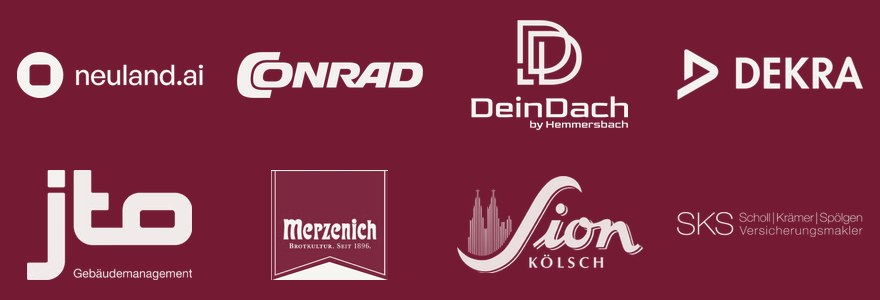
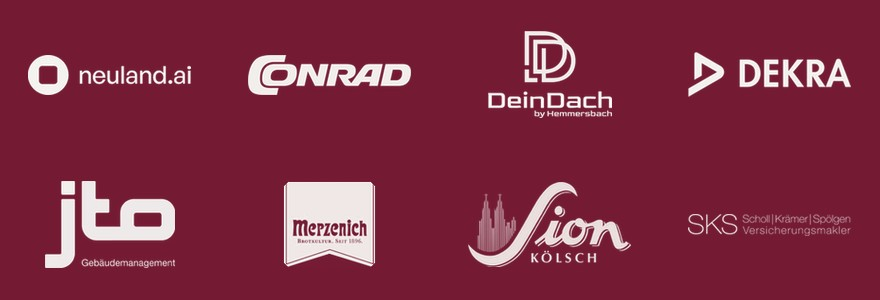
Save the Date: zweite Feedback-Runde (Anne) + echte Rechtslinks (Desi)
Anmerkungen von Anne umgesetzt:
- Logo in den Header gesetzt (zentriertes Logo ueber die Koeln-Skyline
  komponiert, circle-header-std.jpg); separate Logo-Zeile entfernt.
- "SAVE THE DATE" in Versalien.
- "THE CIRCLE No1" heruntergezogen, sitzt jetzt direkt ueber dem Datum.
- Gedankenstrich im Ausblick raus: "... in Kuerze. Halte dir den Abend gern
  schon frei."
- Footer "IHRE MARKENWERKSTATT" in Versalien (Schreibweise Markenwerkstatt).
- Merzenich-Logo korrekt invertiert: war ein weisser Fleck (nur Text, Banner
  transparent), jetzt weisser Banner mit bordeauxrotem Text. Partnerwand neu
  gebaut.

Rechtslinks von Desi (the-circle-cologne.de) in ALLEN Templates fest
verdrahtet, Adress-Platzhalter entfernt:
  Impressum      https://www.the-circle-cologne.de/impressum/
  Datenschutz    https://www.the-circle-cologne.de/datenschutzerklaerung/
Damit ist die rechtliche Kennzeichnung geklaert.

Neue Assets: logo-zentriert-neg.png, circle-header-std.jpg,
partner-merzenich-neg.png (invertiert), partnerwand-bordeaux.jpg (neu gebaut).

diff --git a/email/save-the-date.html b/email/save-the-date.html
@@ -44,34 +44,23 @@
 
       <table role="presentation" width="600" cellpadding="0" cellspacing="0" border="0" style="max-width:600px;width:100%;background-color:#741a33;">
 
-        <!-- S/W-Koeln-Header -->
+        <!-- S/W-Koeln-Header MIT eingesetztem Logo (Anne: "Logo oben in den Header") -->
         <tr><td>
-          <img src="{{header_img_url}}" width="600" alt="THE CIRCLE &ndash; &uuml;ber den D&auml;chern von K&ouml;ln"
+          <img src="https://thecircle.planyvo.com/assets/circle-header-std.jpg" width="600" alt="THE CIRCLE &ndash; &uuml;ber den D&auml;chern von K&ouml;ln"
                style="display:block;width:100%;height:auto;border:0;">
         </td></tr>
 
-        <!-- Logo: zentriert/gestapelt (Anne: "das andere, zentrierte Logo") -->
+        <!-- Anrede in der Kapitalis-Schrift wie THE CIRCLE No1 (Anne) -->
         <tr><td align="center" style="padding:36px 40px 0 40px;">
-          <img src="https://thecircle.planyvo.com/assets/logo-zentriert-neg.png" width="160" alt="THE CIRCLE &ndash; connecting generations" style="display:block;border:0;width:160px;max-width:48%;height:auto;">
-        </td></tr>
-
-        <tr><td style="padding:30px 64px 0 64px;"><div style="border-top:1px solid #94505f;font-size:0;line-height:0;">&nbsp;</div></td></tr>
-
-        <!-- Anrede -->
-        <tr><td align="center" style="padding:32px 40px 0 40px;">
           <div style="font-family:'Trajan Pro 3','Trajan Pro','Cinzel',Georgia,'Times New Roman',serif;font-size:20px;line-height:1.5;color:#f8f7f4;">
             {{anrede}} {{vorname}},
           </div>
         </td></tr>
-        <!-- THE CIRCLE No1 in der Kapitalis-Schrift (Anne: "die Schrift von THE CIRCLE No1 verwenden") -->
-        <tr><td align="center" style="padding:16px 40px 0 40px;">
-          <div style="font-family:'Trajan Pro 3','Trajan Pro','Cinzel',Georgia,'Times New Roman',serif;font-size:16px;letter-spacing:3px;color:#f8f7f4;text-transform:uppercase;">THE CIRCLE No1</div>
-        </td></tr>
 
-        <!-- Headline -->
-        <tr><td align="center" style="padding:12px 40px 0 40px;">
-          <div style="font-family:'Trajan Pro 3','Trajan Pro','Cinzel',Georgia,'Times New Roman',serif;font-size:37px;line-height:1.3;color:#ff6b6c;">
-            Save<br>the Date.
+        <!-- Headline in Versalien (Anne: "SAVE THE DATE in Versalien") -->
+        <tr><td align="center" style="padding:14px 40px 0 40px;">
+          <div style="font-family:'Trajan Pro 3','Trajan Pro','Cinzel',Georgia,'Times New Roman',serif;font-size:37px;line-height:1.25;color:#ff6b6c;text-transform:uppercase;">
+            Save the<br>Date.
           </div>
         </td></tr>
 
@@ -84,8 +73,13 @@
           </div>
         </td></tr>
 
+        <!-- THE CIRCLE No1 direkt ueber dem Datum (Anne: "runter ziehen, ueber das Datum") -->
+        <tr><td align="center" style="padding:28px 40px 0 40px;">
+          <div style="font-family:'Trajan Pro 3','Trajan Pro','Cinzel',Georgia,'Times New Roman',serif;font-size:16px;letter-spacing:3px;color:#f8f7f4;text-transform:uppercase;">THE CIRCLE No1</div>
+        </td></tr>
+
         <!-- Fakten -->
-        <tr><td align="center" style="padding:26px 40px 0 40px;">
+        <tr><td align="center" style="padding:16px 40px 0 40px;">
           <div style="font-family:Arial,Helvetica,sans-serif;font-size:11px;letter-spacing:3px;color:#f8f7f4;text-transform:uppercase;line-height:2.2;">
             Mittwoch, 16. September 2026 &middot; 18:00 &ndash; 23:00 Uhr<br>Playa Cologne<br>3-Gang-Men&uuml; inkl. Getr&auml;nke<br>Teilnahme: 100 Euro
           </div>
@@ -127,8 +121,8 @@
         <tr><td align="center" style="padding:26px 56px 0 56px;">
           <div style="font-family:Arial,Helvetica,sans-serif;font-size:14px;line-height:1.75;color:#f2cbd7;">
             Die Teilnahme ist ausschlie&szlig;lich auf Einladung m&ouml;glich.
-            Deine pers&ouml;nliche Einladung erreicht dich in K&uuml;rze &mdash;
-            halte dir den Abend gern schon frei.
+            Deine pers&ouml;nliche Einladung erreicht dich in K&uuml;rze.
+            Halte dir den Abend gern schon frei.
           </div>
         </td></tr>
 
@@ -164,13 +158,12 @@
         <!-- Footer -->
         <tr><td align="center" style="padding:24px 40px 6px 40px;">
           <div style="font-family:Arial,Helvetica,sans-serif;font-size:9px;letter-spacing:3px;color:#c9889a;text-transform:uppercase;">Eine Veranstaltung von</div>
-          <div style="font-family:'Trajan Pro 3','Trajan Pro','Cinzel',Georgia,'Times New Roman',serif;font-size:15px;letter-spacing:1px;color:#f2cbd7;padding-top:8px;">Ihre Marken Werkstatt &middot; AERA &middot; Public Cologne</div>
+          <div style="font-family:'Trajan Pro 3','Trajan Pro','Cinzel',Georgia,'Times New Roman',serif;font-size:15px;letter-spacing:1px;color:#f2cbd7;padding-top:8px;text-transform:uppercase;">Ihre Markenwerkstatt &middot; AERA &middot; Public Cologne</div>
         </td></tr>
         <tr><td align="center" style="padding:14px 40px 0 40px;">
           <div style="font-family:Arial,Helvetica,sans-serif;font-size:10px;color:#c9889a;line-height:1.7;">
-            {{impressum_zeile}}<br>
-            <a href="{{impressum_url}}" style="color:#c9889a;text-decoration:underline;">Impressum</a> &middot;
-            <a href="{{datenschutz_url}}" style="color:#c9889a;text-decoration:underline;">Datenschutz</a>
+            <a href="https://www.the-circle-cologne.de/impressum/" style="color:#c9889a;text-decoration:underline;">Impressum</a> &middot;
+            <a href="https://www.the-circle-cologne.de/datenschutzerklaerung/" style="color:#c9889a;text-decoration:underline;">Datenschutz</a>
           </div>
         </td></tr>
         <tr><td align="center" style="padding:8px 40px 32px 40px;">

diff --git a/email/app-zugang.html b/email/app-zugang.html
@@ -117,9 +117,8 @@
         </td></tr>
         <tr><td align="center" style="padding:14px 40px 0 40px;">
           <div style="font-family:Arial,Helvetica,sans-serif;font-size:10px;color:#7a8db3;line-height:1.7;">
-            {{impressum_zeile}}<br>
-            <a href="{{impressum_url}}" style="color:#7a8db3;text-decoration:underline;">Impressum</a> &middot;
-            <a href="{{datenschutz_url}}" style="color:#7a8db3;text-decoration:underline;">Datenschutz</a>
+                        <a href="https://www.the-circle-cologne.de/impressum/" style="color:#7a8db3;text-decoration:underline;">Impressum</a> &middot;
+            <a href="https://www.the-circle-cologne.de/datenschutzerklaerung/" style="color:#7a8db3;text-decoration:underline;">Datenschutz</a>
           </div>
         </td></tr>
         <tr><td align="center" style="padding:8px 40px 32px 40px;">

diff --git a/email/einladung-ehrengast.html b/email/einladung-ehrengast.html
@@ -165,9 +165,8 @@
         </td></tr>
         <tr><td align="center" style="padding:14px 40px 0 40px;">
           <div style="font-family:Arial,Helvetica,sans-serif;font-size:10px;color:#c998a4;line-height:1.7;">
-            {{impressum_zeile}}<br>
-            <a href="{{impressum_url}}" style="color:#c998a4;text-decoration:underline;">Impressum</a> &middot;
-            <a href="{{datenschutz_url}}" style="color:#c998a4;text-decoration:underline;">Datenschutz</a>
+                        <a href="https://www.the-circle-cologne.de/impressum/" style="color:#c998a4;text-decoration:underline;">Impressum</a> &middot;
+            <a href="https://www.the-circle-cologne.de/datenschutzerklaerung/" style="color:#c998a4;text-decoration:underline;">Datenschutz</a>
           </div>
         </td></tr>
         <tr><td align="center" style="padding:8px 40px 32px 40px;">

diff --git a/email/einladung-ticket-partner.html b/email/einladung-ticket-partner.html
@@ -162,9 +162,8 @@
         </td></tr>
         <tr><td align="center" style="padding:14px 40px 0 40px;">
           <div style="font-family:Arial,Helvetica,sans-serif;font-size:10px;color:#c998a4;line-height:1.7;">
-            {{impressum_zeile}}<br>
-            <a href="{{impressum_url}}" style="color:#c998a4;text-decoration:underline;">Impressum</a> &middot;
-            <a href="{{datenschutz_url}}" style="color:#c998a4;text-decoration:underline;">Datenschutz</a>
+                        <a href="https://www.the-circle-cologne.de/impressum/" style="color:#c998a4;text-decoration:underline;">Impressum</a> &middot;
+            <a href="https://www.the-circle-cologne.de/datenschutzerklaerung/" style="color:#c998a4;text-decoration:underline;">Datenschutz</a>
           </div>
         </td></tr>
         <tr><td align="center" style="padding:8px 40px 32px 40px;">

diff --git a/email/einladung-ticket.html b/email/einladung-ticket.html
@@ -157,9 +157,8 @@
         </td></tr>
         <tr><td align="center" style="padding:14px 40px 0 40px;">
           <div style="font-family:Arial,Helvetica,sans-serif;font-size:10px;color:#c998a4;line-height:1.7;">
-            {{impressum_zeile}}<br>
-            <a href="{{impressum_url}}" style="color:#c998a4;text-decoration:underline;">Impressum</a> &middot;
-            <a href="{{datenschutz_url}}" style="color:#c998a4;text-decoration:underline;">Datenschutz</a>
+                        <a href="https://www.the-circle-cologne.de/impressum/" style="color:#c998a4;text-decoration:underline;">Impressum</a> &middot;
+            <a href="https://www.the-circle-cologne.de/datenschutzerklaerung/" style="color:#c998a4;text-decoration:underline;">Datenschutz</a>
           </div>
         </td></tr>
         <tr><td align="center" style="padding:8px 40px 32px 40px;">
